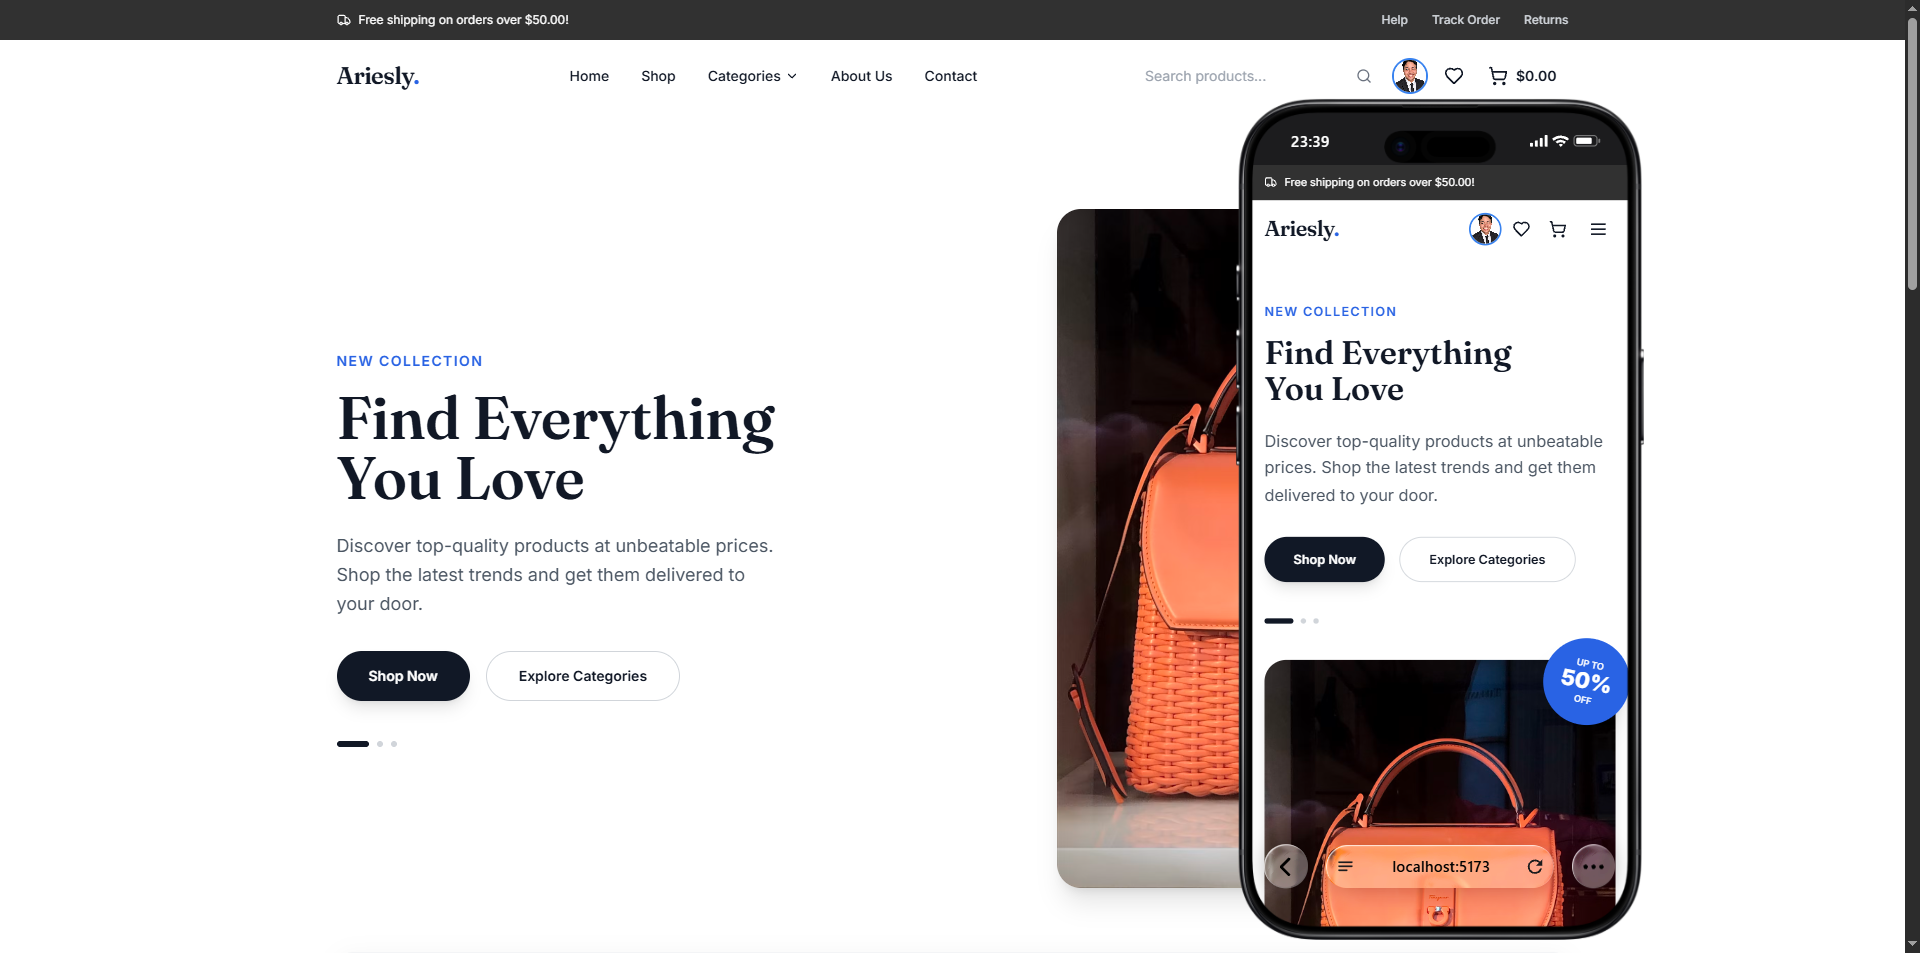
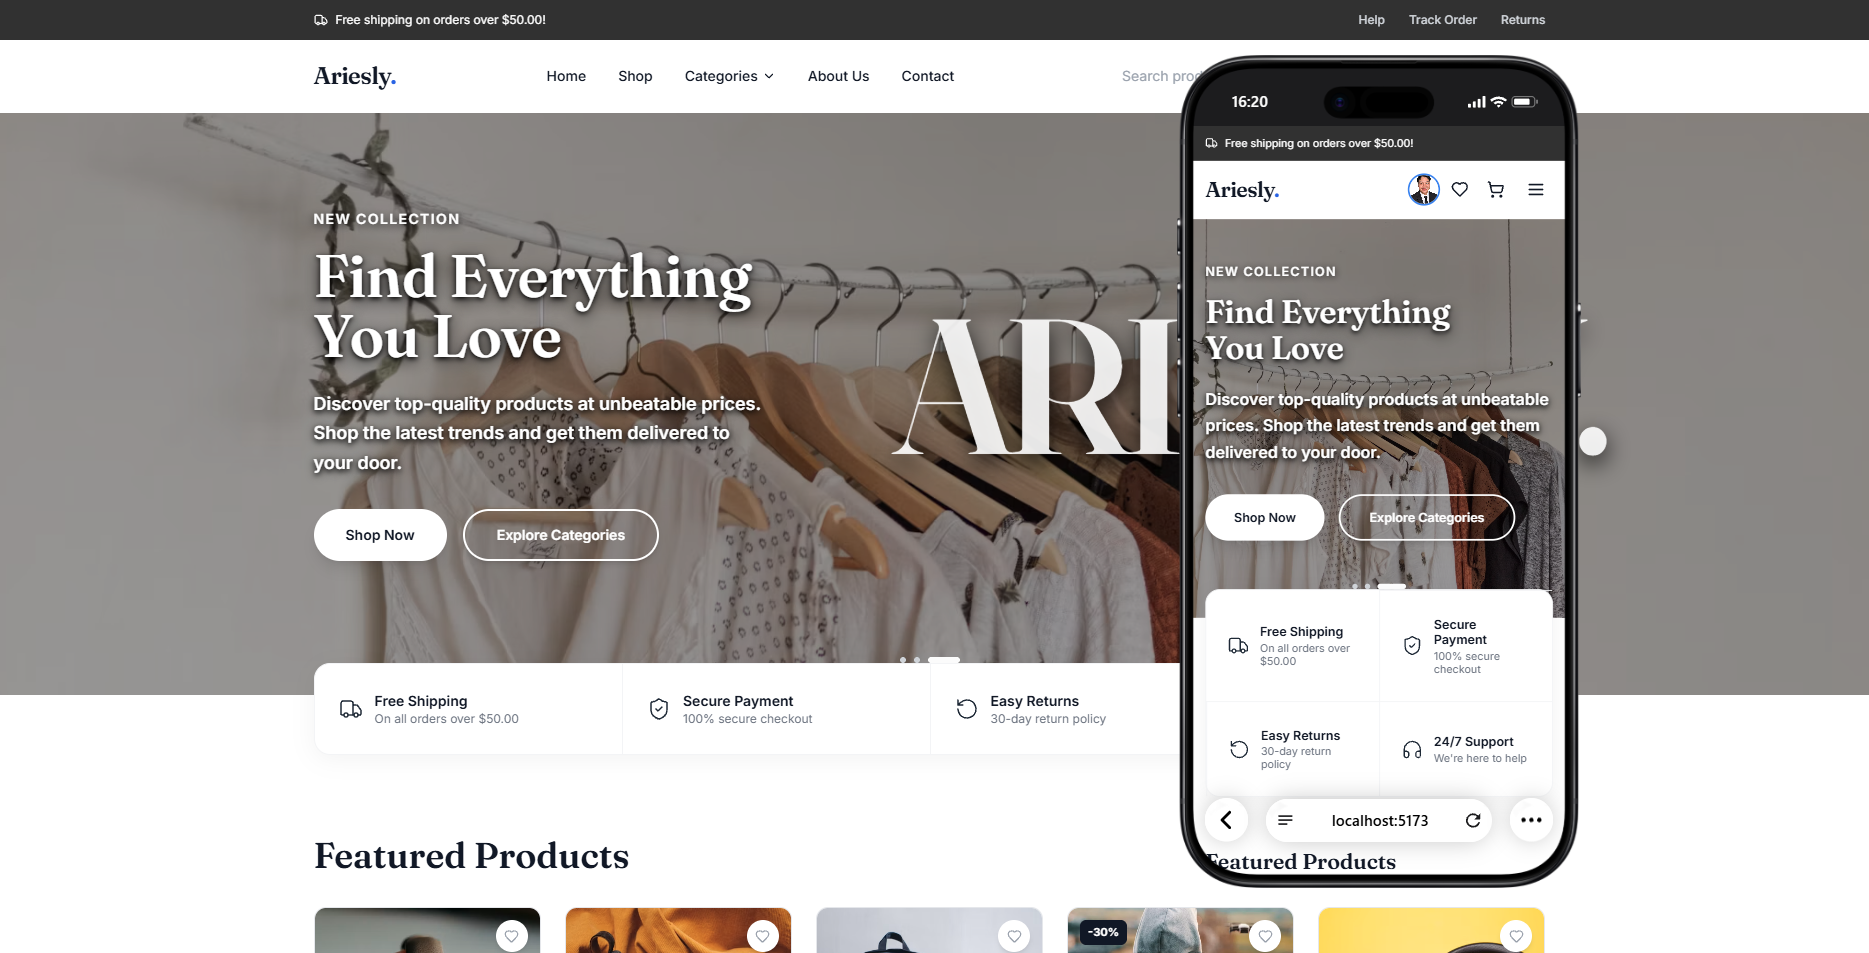
change image ariesly.png

diff --git a/src/components/AllProjects.jsx b/src/components/AllProjects.jsx
@@ -5,7 +5,7 @@ import { Link } from 'react-router-dom'; // Removed useNavigate
 import cleanGenieImg from '../assets/clean-genie.png';
 import dashboardImg from '../assets/dashboard.png';
 import vilamagentaImg from '../assets/vilamagenta.png';
-import arieslyImg from '../assets/Ariesly.png';
+import arieslyImg from '../assets/ariesly.png';
 
 const allProjectData = [
   {
